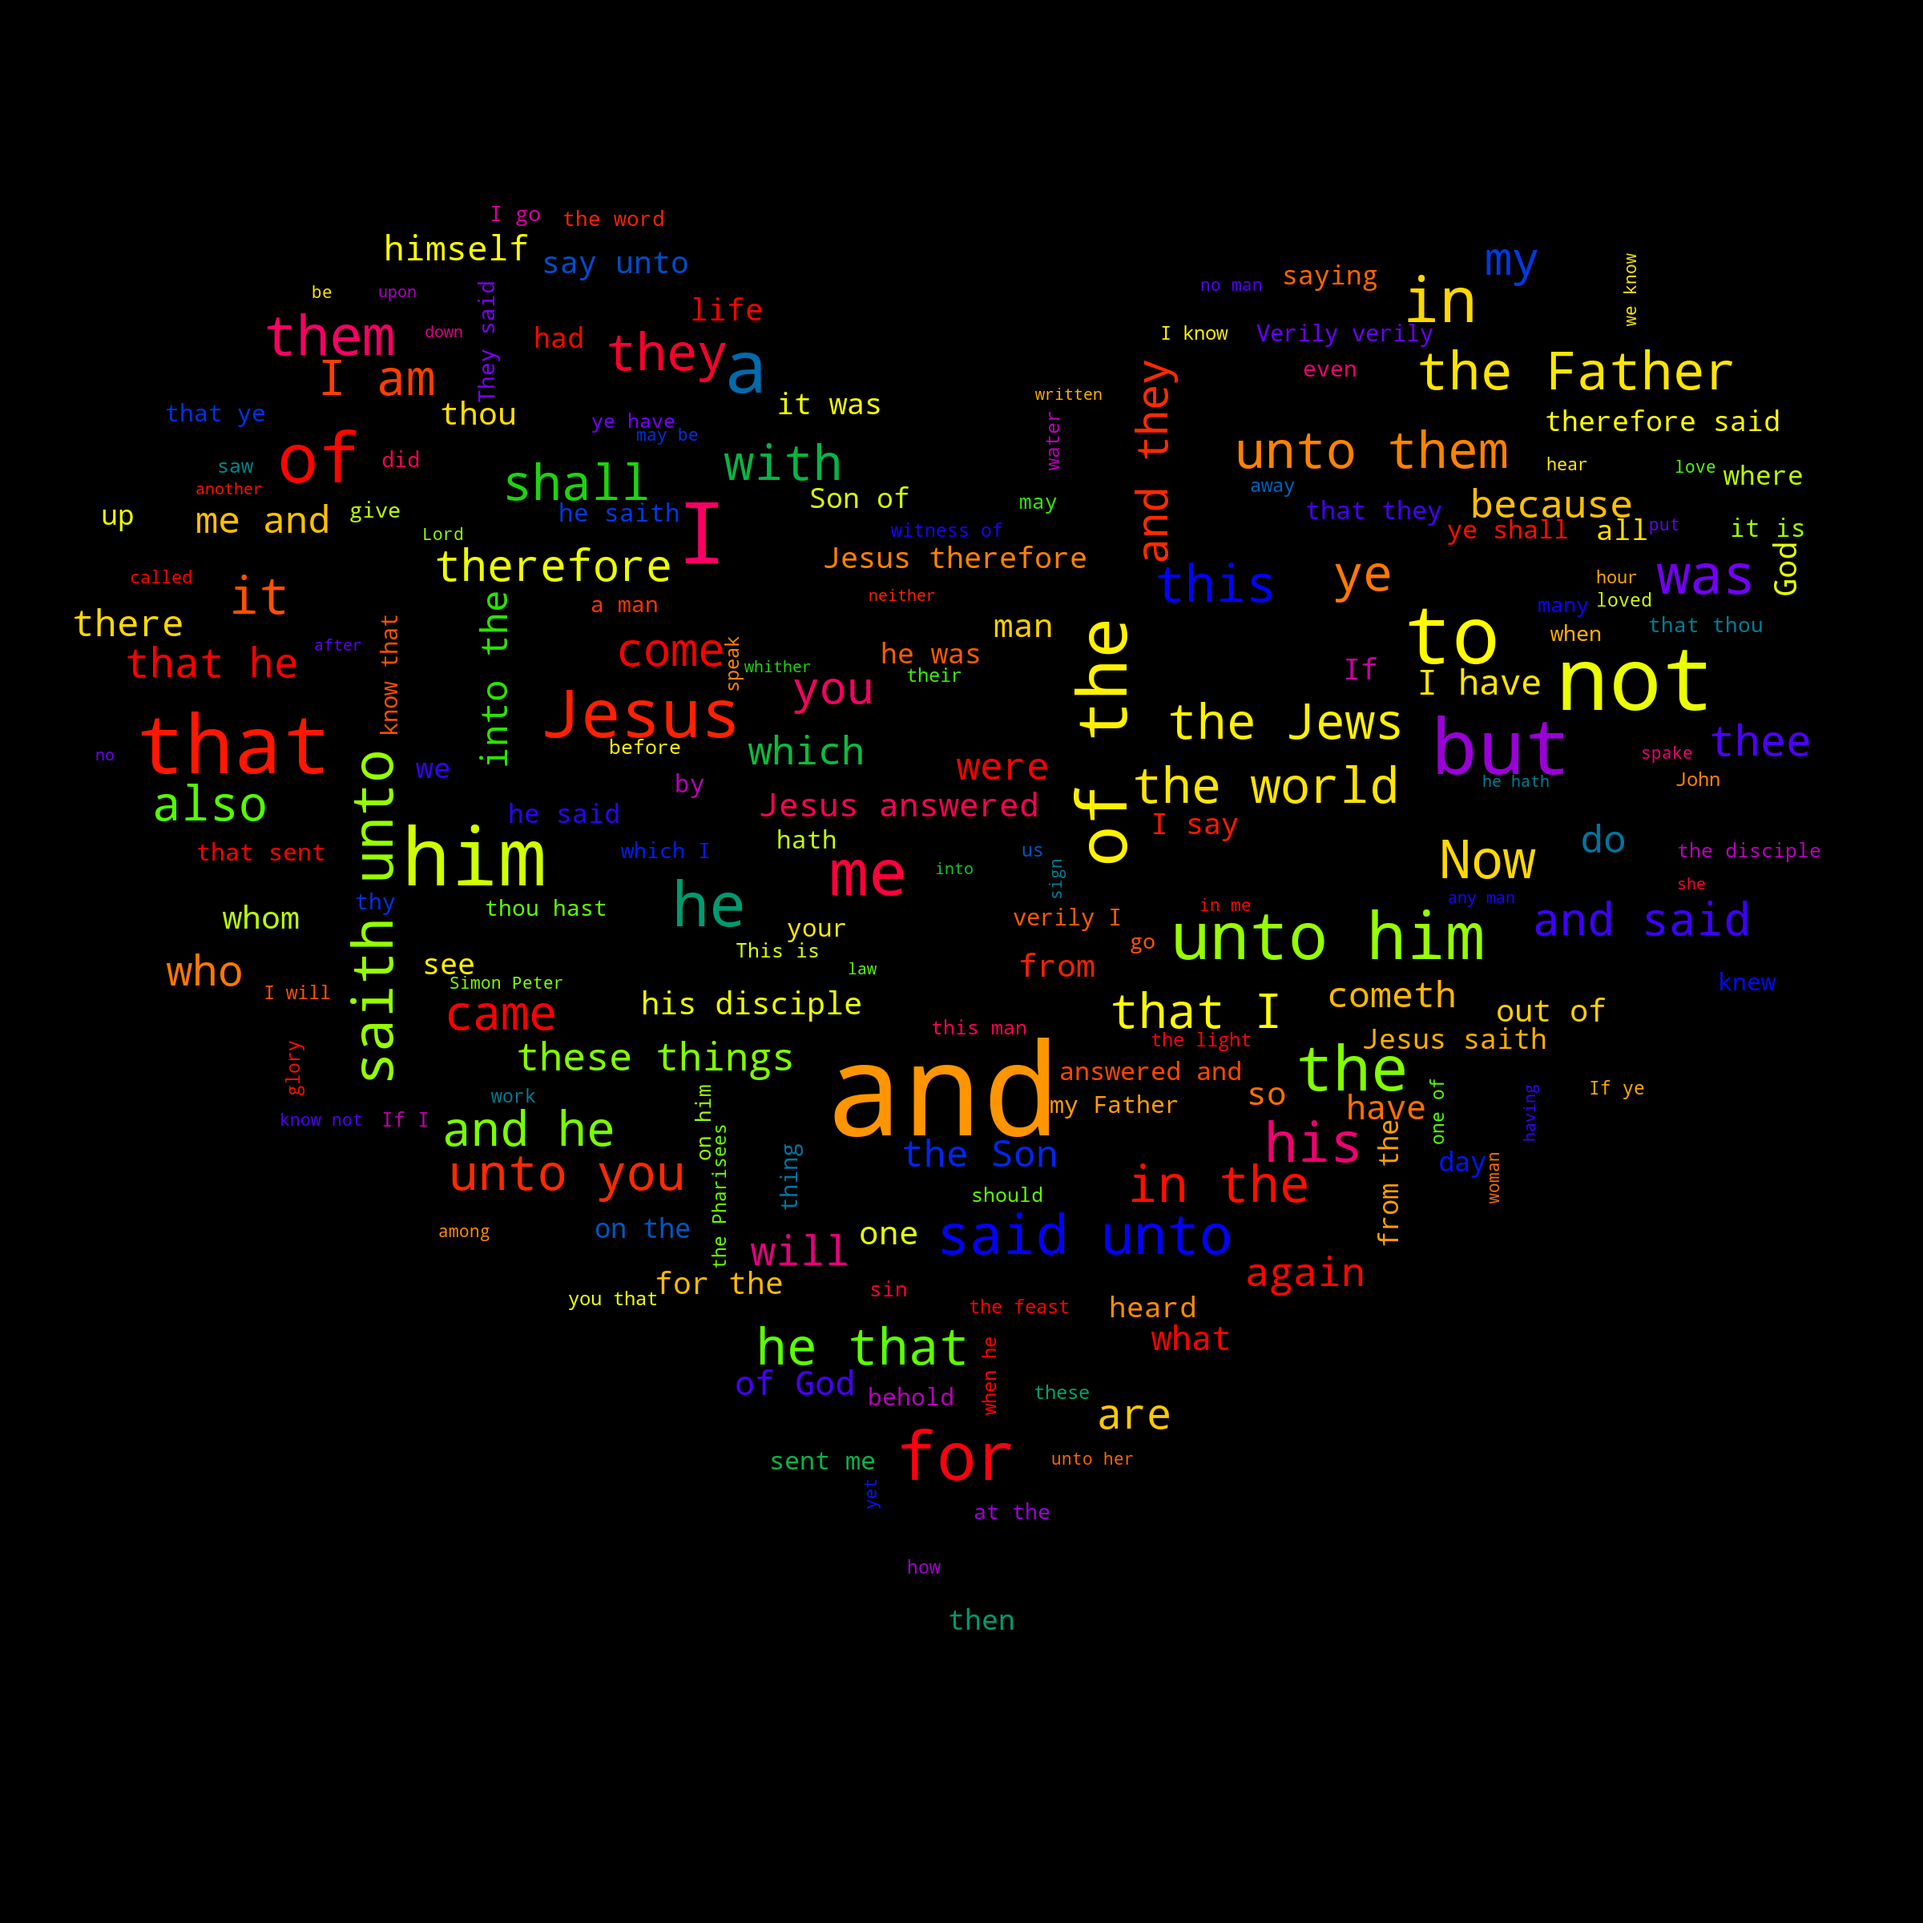
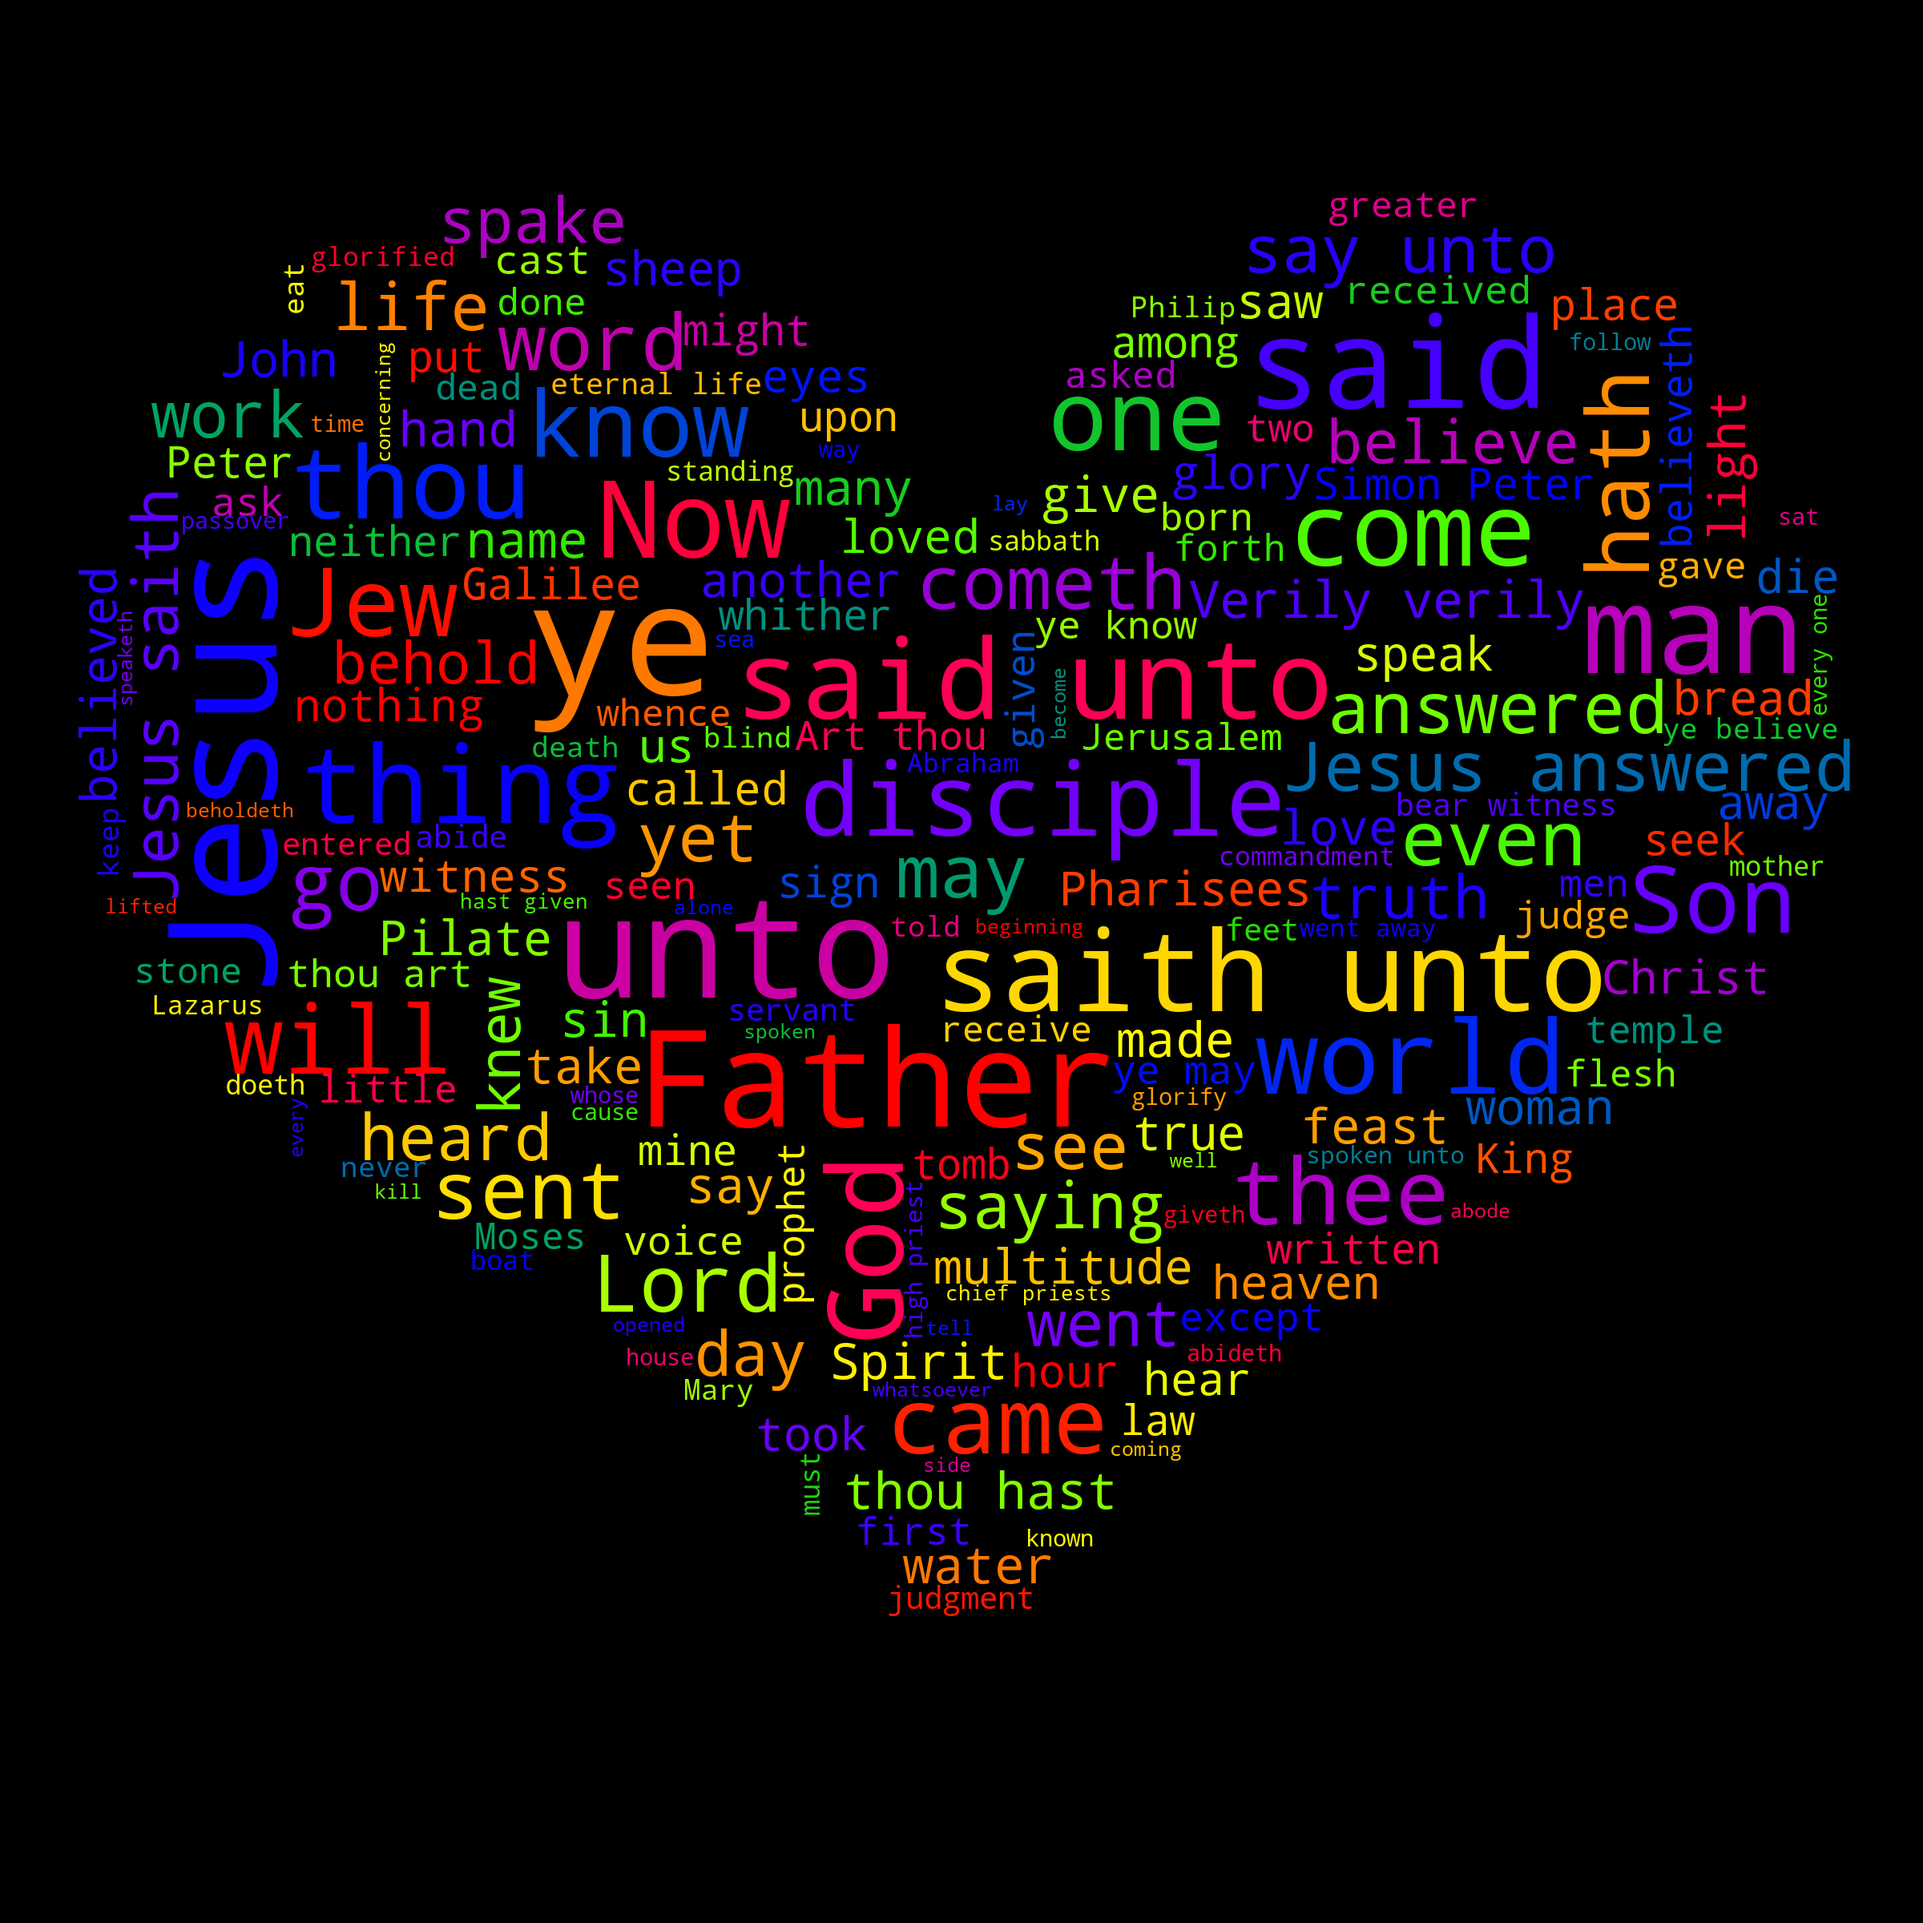
initial commit

Changed region(s): [[0.0312, 0.0938, 0.9688, 0.8438]]

diff --git a/exercise1.py b/exercise1.py
@@ -1,0 +1,43 @@
+#from pathlib import Path
+import imageio
+from wordcloud import WordCloud
+from operator import itemgetter
+from textblob import TextBlob
+import nltk
+from nltk.corpus import stopwords
+import wordcloud
+
+stop_words = stopwords.words("english")
+
+more_stops = ['thy, ye, verily, thee, hath, say, thou, art, shall']
+
+stop_words += more_stops
+
+text = TextBlob(('book of John Text.txt').read_text())
+
+noun = []
+
+noun += text.noun_phrases
+
+items = text.word_counts.items()
+
+clean_items = [word for word in items if word[0] in noun and word[0] not in stop_words]
+
+sorted_list = sorted(clean_items, key=itemgetter(1), reverse=True) 
+
+top_sorted = str(sorted_list[:15])
+
+print(top_sorted)
+
+top15 = ' '
+
+for i in top_sorted:
+    top15 += i[0]
+    top15 += ''
+print(top15)
+
+mask_image = imageio.imread('mask_heart.png')
+
+wordcloud = WordCloud(colormap='prism', mask=mask_image, background_color='black')
+wordcloud = wordcloud.generate(top15)
+wordcloud = wordcloud.to_file('book of John Text heart.png')

diff --git a/exercise.py b/exercise.py
@@ -1,14 +1,24 @@
 from pathlib import Path
 import imageio
-from wordcloud import WordCloud
+from wordcloud import WordCloud, STOPWORDS
+#import nltk
+#from nltk.corpus import stopwords
 
 text = Path('book of John Text.txt').read_text()
 
+#stop_word = nltk.corpus.stopwords.words('english')
+
 more_stops = ['thy, ye, verily, thee, hath, say, thou, art, shall']
+
+#stop_word.extend(more_stops)
+
+STOPWORDS.add('thy')
 
 mask_image = imageio.imread('mask_heart.png')
 
-wordcloud = WordCloud(stopwords=more_stops, colormap='prism', mask=mask_image, background_color='black')
+#wordcloud = WordCloud(stopwords=stop_word, colormap='prism', mask=mask_image, background_color='black')
+
+wordcloud = WordCloud(stopwords=STOPWORDS, colormap='prism', mask=mask_image, background_color='black')
 
 wordcloud = wordcloud.generate(text)
 
